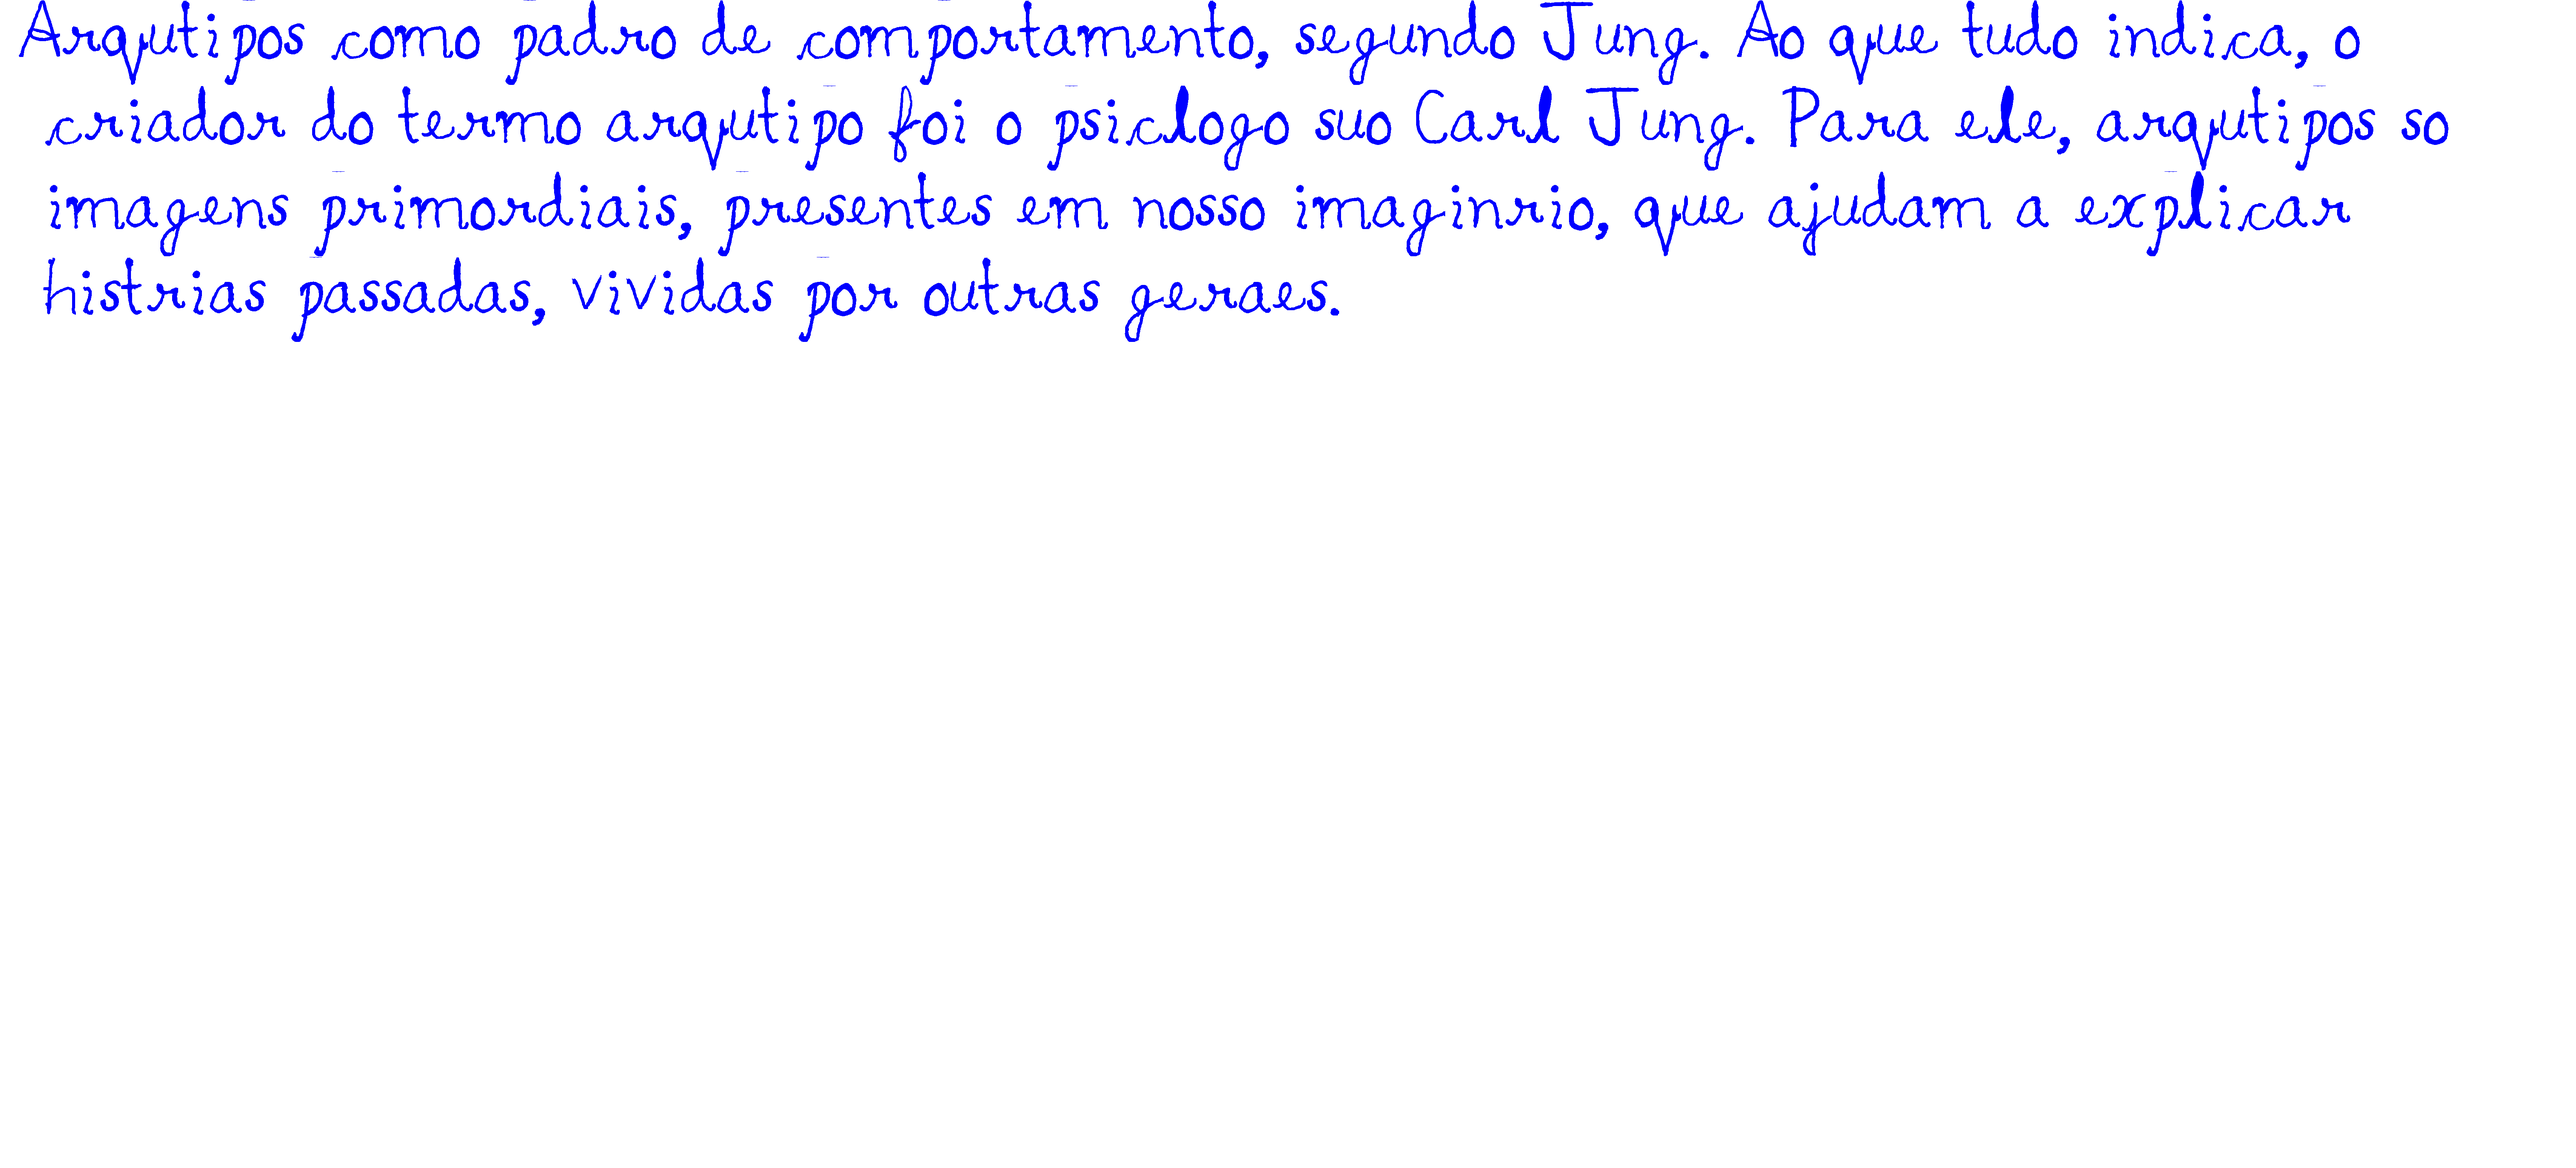
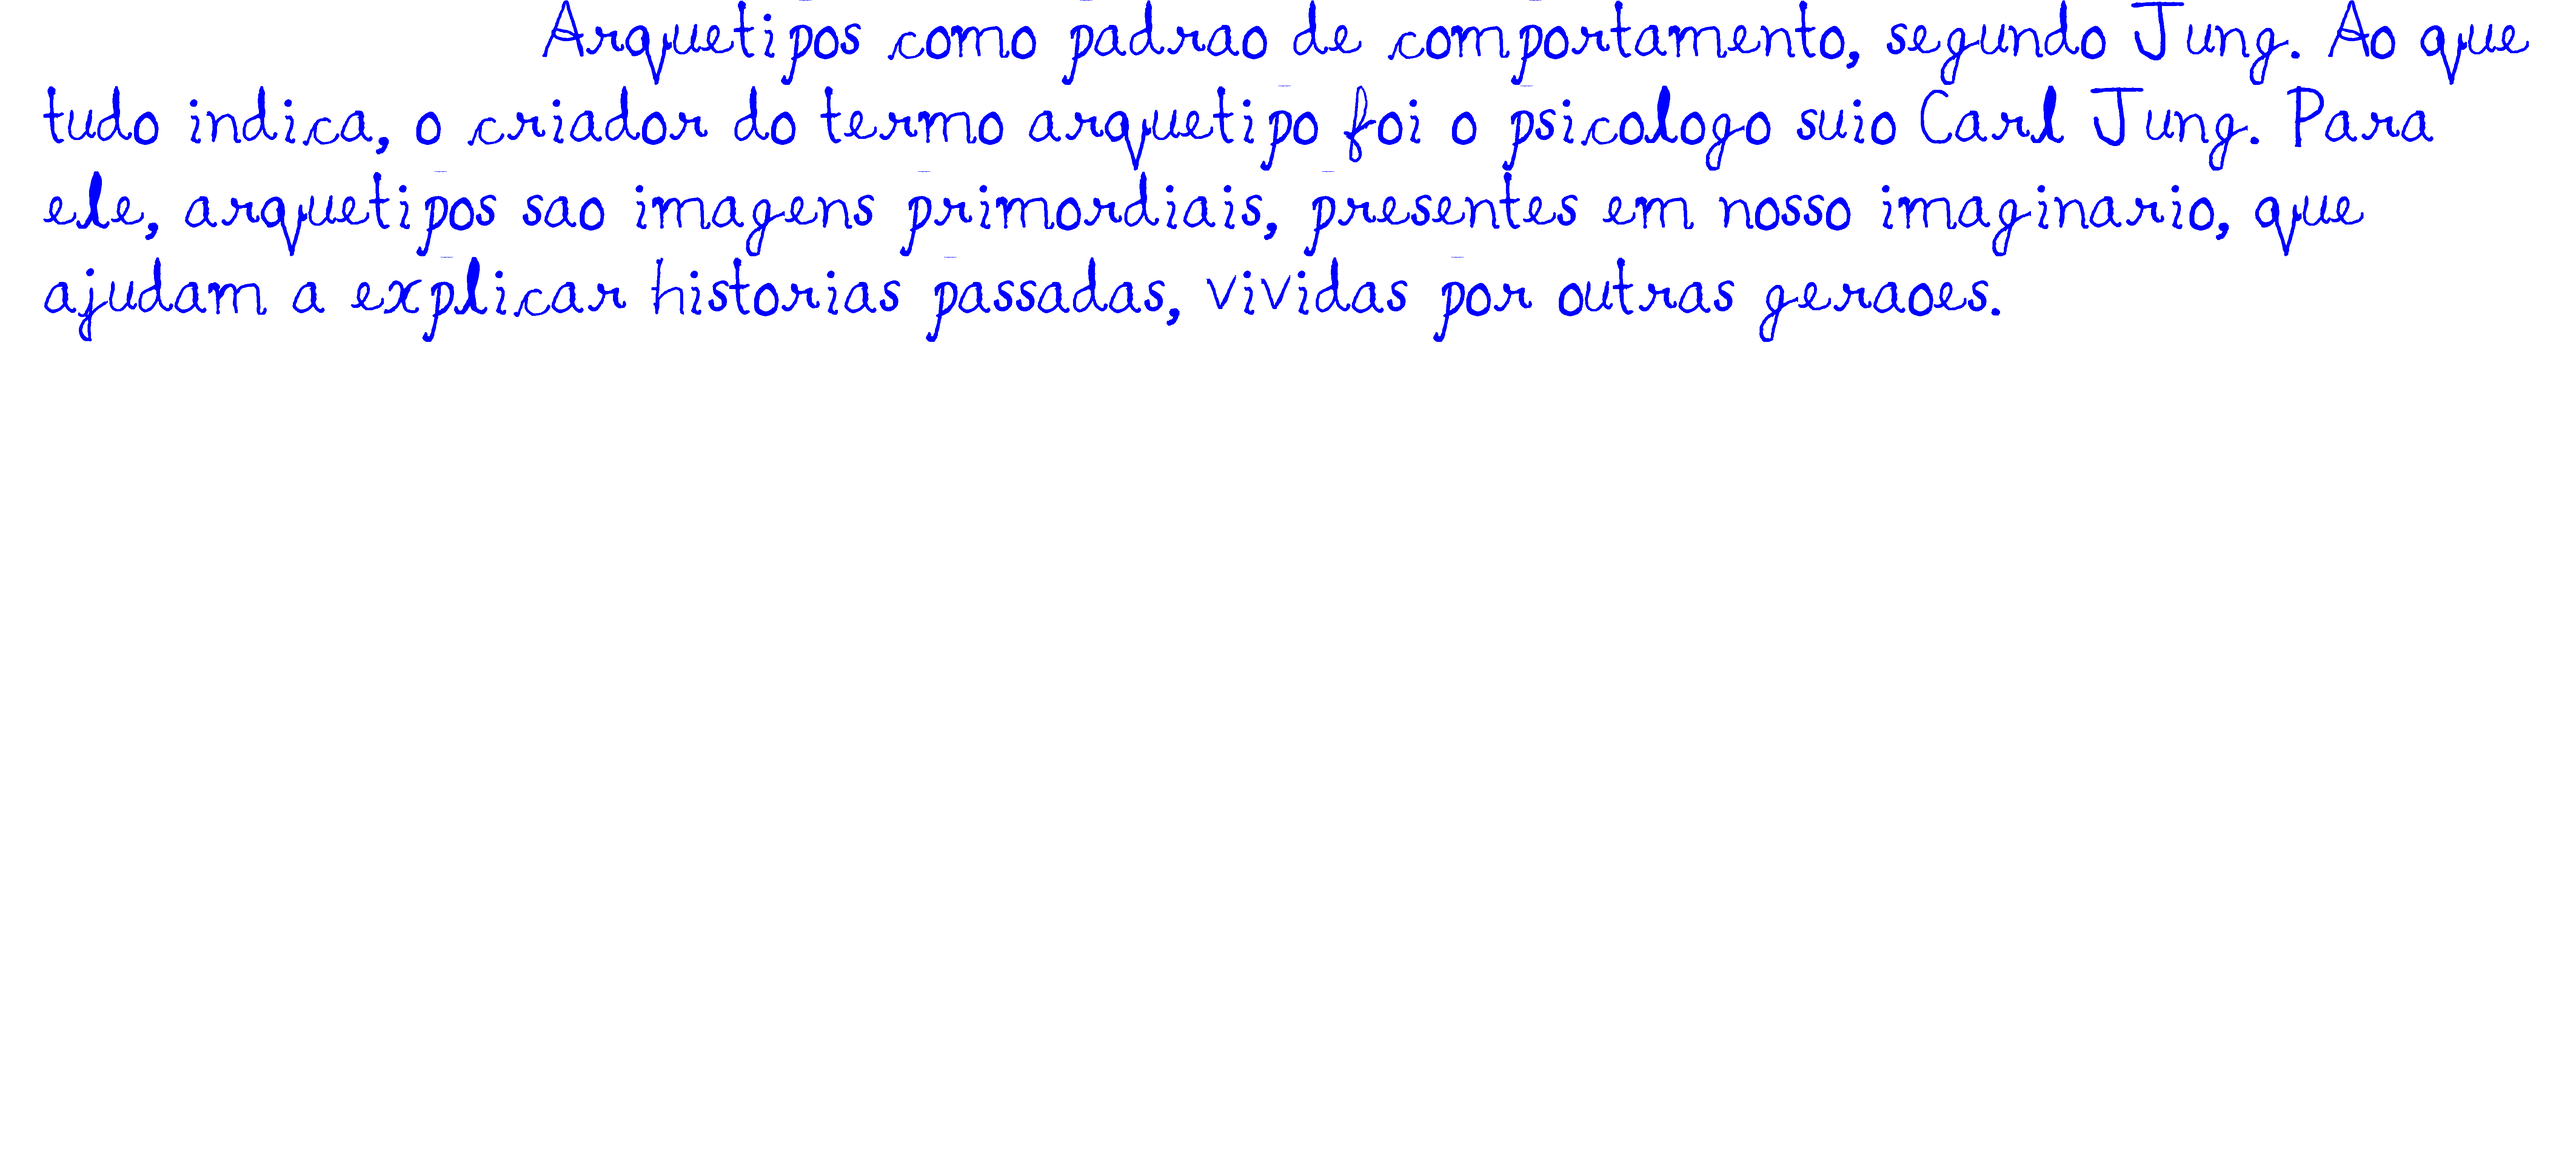
Baskara em python e outros.

Changed region(s): [[0.0, 0.0, 0.9675, 0.2792]]

diff --git a/Estudo_de_Python/Exercicios-em-python/equacoesde2grau.py b/Estudo_de_Python/Exercicios-em-python/equacoesde2grau.py
@@ -1,27 +1,32 @@
 #--------------------------------------------
-# Cálculo de equações de segundo grau ( Bhakara)
+# Cálculo de equações de segundo grau ( Bhaskara)
 #
 #--------------------------------------------
+import math
 
-def Calculo(a, b, c):
-    delta = (b ** 2)-(4 * a * c)
+a = float(input("Digite um valor para A: "))
+b = float(input("Digite um valor para B: "))
+c = float(input("Digite um valor para C: "))
 
-    x1 = (-b + delta ** (1 / 2)) / (2 * a)
-    x2 = (-b - delta ** (1 / 2)) / (2 * a)
+# Calculo(a, b, c)
 
-    print("\nValor de x1: {0}".format(x1))
-    print("Valor de x2: {0}".format(x2))
+delta = b ** 2 - 4 * a * c
 
-    if __name__ == "__main__":
-        while true:
-            print("Calculando as raizes de uma equação de Segundo Grau\n")
-
-            a = float(input("Digite um valor para A: "))
-            b = float(input("Digite um valor para B: "))
-            c = float(input("Digite um valor para C: "))
-
-            Calculo(a,b,c)
-
-            segue = input("\nPara finalizar, Digite q ou pressione enter para um novo cálculo: \n")
-            if (segue == "q"):
-                break
+if delta == 0:
+    x1 = (-b + math.sqrt(delta)) / (2 * a)
+    print("A única raiz é: {0}".format(x1))
+else:
+    if delta < 0:
+        print("Esta equação não pertence aos números Reais!!!")
+    else:
+        x1 = (-b + math.sqrt(delta)) / (2 * a)
+        x2 = (-b - math.sqrt(delta)) / (2 * a)
+        print("\nO Valor de x1: {}, e x2: {}\n".format(x1,x2))
+        
+"""
+if __name__ == "__main__":
+    segue = input("\nPara finalizar, Digite q ou pressione enter para um novo cálculo: \n")
+    if (segue == "q"):
+        break
+"""
+# End 

diff --git a/Estudo_de_Python/Exercicios-em-python/metodosstring.py b/Estudo_de_Python/Exercicios-em-python/metodosstring.py
@@ -1,0 +1,53 @@
+#-----------------------------------
+# Métodos utilizados com strings em Python
+#
+#------------------------------------
+#
+print("\nLower(), retorna uma versão da string em caracteres minúsculos\n")
+b = "TEXTO DIGITADO SERÁ ALTERADO PELO MÉTODO LOWER"
+print("\nTexto original\n")
+print(b)
+b = b.lower()
+print("\nTexto alterado\n")
+print(b,"\n")
+#Fim deste método
+
+print("\nMétodo replace(), irá substituir um trecho de uma string por outro\n")
+b = b.replace("será alterado", "alterado")
+print(b,"\n")
+#Fim deste método
+
+print("\nMétodo count(), retorna o número de ocorrências de uma substring na string\n")
+c = b.count('a')
+print(c)
+#Fim deste método
+
+print("\nMétodo split(), divide uma string em partes definidas por um marcador e retorna um array\n")
+b = b.split(" ")
+print(b,"\n")
+#Fim deste método
+
+print("\nMétodo join(), transforma um array de strings em apenas uma string")
+
+array1 = ["hoje", "é", "um", "excelente", "dia"]
+print("\nDicionário original\n")
+print(array1,"\n")
+f = " ".join(array1)
+print("\nUtilizando o método join para formar uma única string\n")
+print(f,"\n")
+#Fim deste método
+
+print("\nMétodo strip(), retira espaços de início e do fim de uma string")
+
+umastring = "     Olá     "
+print(umastring,"\n")
+umastring = umastring.strip()
+print(umastring,"\n")
+
+
+"""
+print("\nMétodo strip(), Exclui os espaços do início e o dim de uma string\n")
+novo = novoa.strip()
+print(novoa,"\n")
+
+"""

diff --git a/Estudo_de_Python/Exercicios-em-python/TestesGEral.py b/Estudo_de_Python/Exercicios-em-python/TestesGEral.py
@@ -39,4 +39,41 @@ print (a > b)
 
 import pywhatkit
 pywhatkit.text_to_handwriting("Arquetipos como padrao de comportamento, segundo Jung. Ao que tudo indica, o criador do termo arquetipo foi o psicologo suiço Carl Jung. Para ele, arquetipos sao imagens primordiais, presentes em nosso imaginario, que ajudam a explicar historias passadas, vividas por outras geraçoes.", rgb=(0,0,255))
-""" 
+
+
+list = ["a","b","c"]
+list.pop() # pop remove a última
+print(list)
+
+i = 1
+while i < 4:
+    i += 1
+    if i == 2:
+        continue
+    print(i)  
+
+
+d = {0:'a', 1:'b', 2:'c'}
+for x in d.keys():
+    print(d[x])
+ 
+idade = 16  
+    
+if (idade < 18): 
+       print ("Não pode tirar carteira de habilitação")
+else:
+       print ("Pode tirar a carteira de habilitação")
+"""
+
+a = 0
+b = 2
+c = 1
+
+if (a > 0):
+    if (b > 0):
+        print ("Tudo ok para decolagem!")
+    else:
+        print ("Tanque principal vazio; voando com combustível reserva!")
+else:
+    if (c > 0):
+        print ("Foguete não tem piloto, mas há outros foguetes disponíveis!")

diff --git a/Estudo_de_Python/Estudo-de-cucumber-em-py/features/steps/tutorial.py b/Estudo_de_Python/Estudo-de-cucumber-em-py/features/steps/tutorial.py
@@ -1,0 +1,13 @@
+from behave import *
+
+@given('we have behave installed')
+def step_impl(context):
+    pass
+
+@when('we implement a test')
+def step_impl(context):
+    assert True is not False
+
+@then('behave will test it for us!')
+def step_impl(context):
+    assert context.failed is False
